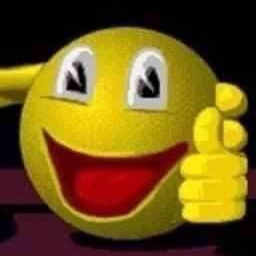
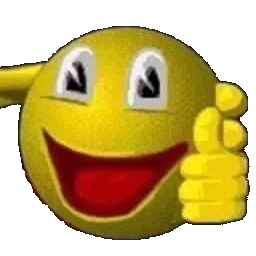
Transparency and depth buffer

diff --git a/3DGP/Triangle.cpp b/3DGP/Triangle.cpp
@@ -182,7 +182,7 @@ void Triangle::Draw(std::unique_ptr<Time>& _time)
 	model = glm::translate(model, glm::vec3(0, 0, -2.5f));
 	model = glm::rotate(model, glm::radians(m_angle), glm::vec3(0, 1, 0));
 
-	m_angle += 15 * _time->GetDeltaTime();
+	m_angle += 60 * _time->GetDeltaTime();
 
 	glUseProgram(m_programId);
 	glBindVertexArray(m_vaoId);
@@ -191,7 +191,12 @@ void Triangle::Draw(std::unique_ptr<Time>& _time)
 	glUniformMatrix4fv(m_modelLoc, 1, GL_FALSE, glm::value_ptr(model));
 	glUniformMatrix4fv(m_projectionLoc, 1, GL_FALSE, glm::value_ptr(projection));
 
+	glEnable(GL_BLEND);
+	glBlendFunc(GL_SRC_ALPHA, GL_ONE_MINUS_SRC_ALPHA);
+
+	glEnable(GL_CULL_FACE);
 	glDrawArrays(GL_TRIANGLES, 0, 3);
+	glDisable(GL_CULL_FACE);
 
 	glBindTexture(GL_TEXTURE_2D, 0);
 	glBindVertexArray(0);
